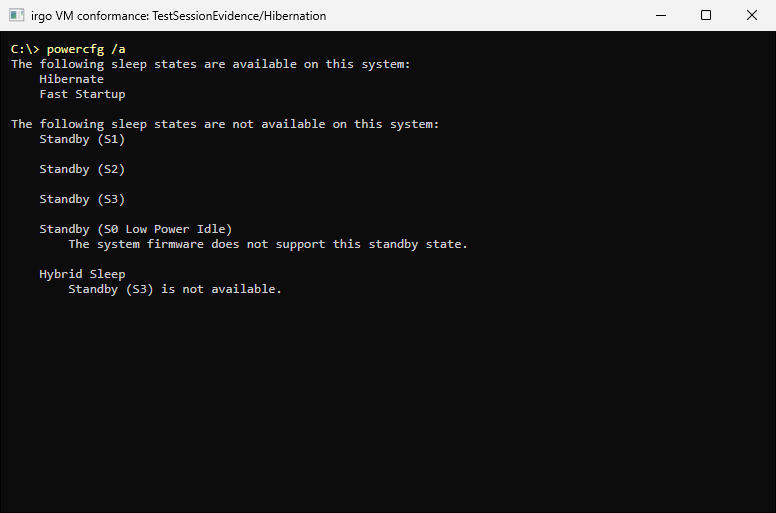
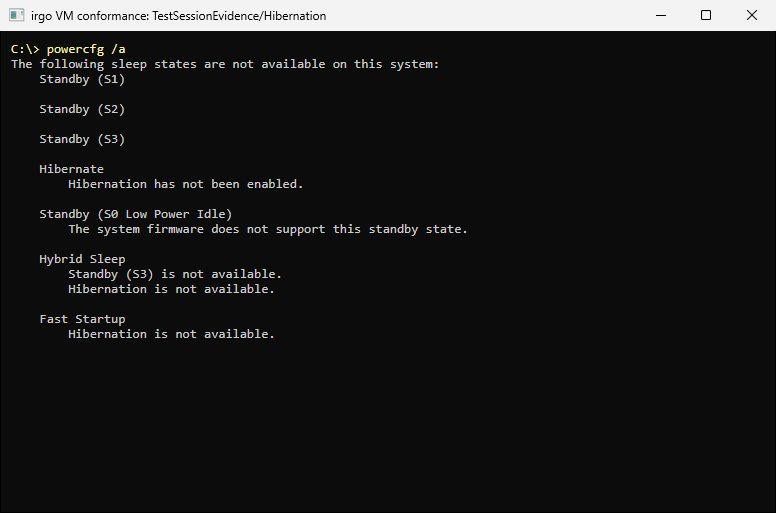
VM-STATUS: irgo-win11 YES, 44 of 44 (decrypted, hibernation off by vm-repair)

Changed region(s): [[0.0309, 0.3119, 0.5876, 0.6862], [0.0, 0.1248, 0.5567, 0.2807], [0.3093, 0.0936, 0.5567, 0.1559]]

diff --git a/docs/VM-STATUS.md b/docs/VM-STATUS.md
@@ -9,17 +9,17 @@ session (the `TestSession` tests) — from its test2json events, or a check only
 the host can make (`Host/`). What each checks is in its comment. The checks
 only read: none changes the VM.
 
-<!-- vm-status:irgo-win11 commit=f0b88cd6e1d13e3102b2cf2f823e1b3f5744d906 source-dirty=false when=2026-10-01T05:42:03Z -->
-## irgo-win11 — NO: failed: TestDeviceEncryptionOff/prevented TestDeviceEncryptionOff/volume_decrypted TestHibernationOff
+<!-- vm-status:irgo-win11 commit=264eb82e194c954e4c694ec4099d92767cdc7903 source-dirty=false when=2026-10-01T07:33:54Z -->
+## irgo-win11 — YES: 44 passed, 0 skipped
 
-- when: 2026-10-01 12:42 +0700, took 58s
+- when: 2026-10-01 14:33 +0700, took 53s
 - platform: windows/arm64, VM irgo-win11 (through app-create: as SYSTEM, and -gui in dev's session)
-- this repository: commit `f0b88cd6e1d1`
+- this repository: commit `264eb82e194c`, **with uncommitted changes**
 - windows: 26100.9457 (24H2, Professional, ARM64)
 - webview2: 154.0.4258.48
-- c-free: 32.7 GiB
-- full log: `~/Library/Application Support/irgo-winvm/logs/vm-irgo-win11-20261001-124203.log`
-- test2json events: `~/Library/Application Support/irgo-winvm/logs/vm-irgo-win11-20261001-124203.json`
+- c-free: 35.9 GiB
+- full log: `~/Library/Application Support/irgo-winvm/logs/vm-irgo-win11-20261001-143354.log`
+- test2json events: `~/Library/Application Support/irgo-winvm/logs/vm-irgo-win11-20261001-143354.json`
 - screenshots: 12 of 12 taken — see [Screenshots](#screenshots)
 
 | test | result | first message | what it read |
@@ -39,12 +39,12 @@ only read: none changes the VM.
 | TestWindowsUpdatePolicy/notifications_off | PASS |  | `SetUpdateNotificationLevel=1 / UpdateNotificationLevel=2` |
 | TestWindowsUpdatePolicy/restart_notifications_off | PASS |  | `SetAutoRestartNotificationDisable=1` |
 | TestWindowsKeysDisabled | PASS |  | `Scancode Map=00000000000000000300000000005BE000005CE000000000` |
-| TestWindowsKeysDisabled/in_effect_since_boot | PASS |  | `vm-repair wrote it at 2026-09-30T07:51:56Z; booted 2026-09-30T23:13:55Z` |
+| TestWindowsKeysDisabled/in_effect_since_boot | PASS |  | `vm-repair wrote it at 2026-09-30T07:51:56Z; booted 2026-09-30T23:46:27Z` |
 | TestOneDriveOff | PASS |  | `DisableFileSyncNGSC=1` |
-| TestDeviceEncryptionOff | fail (a subtest failed) |  |  |
-| TestDeviceEncryptionOff/prevented | **FAIL** | `system_windows_test.go:216: HKLM\SYSTEM\CurrentControlSet\Control\BitLocker\PreventDeviceEncryption is not set; want 1 (the answer file sets it in specialize; irgo-winvm vm-golden-create sets it before sealing)` | `HKLM\SYSTEM\CurrentControlSet\Control\BitLocker\PreventDeviceEncryption not set` |
-| TestDeviceEncryptionOff/volume_decrypted | **FAIL** | `system_windows_test.go:235: C: is fully encrypted (100% encrypted): a copy of it does not compress (irgo-winvm vm-golden-create decrypts its source)` | `C: fully encrypted, 100% encrypted, protection status 0` |
-| TestHibernationOff | **FAIL** | `system_windows_test.go:257: hibernation is on (HibernateEnabled not set, C:\hiberfil.sys 3432091648 bytes): powercfg /h off turns it off, as irgo-winvm vm-golden-create does before sealing` | `HibernateEnabled=not set, C:\hiberfil.sys 3432091648 bytes` |
+| TestDeviceEncryptionOff | PASS |  |  |
+| TestDeviceEncryptionOff/prevented | PASS |  | `PreventDeviceEncryption=1` |
+| TestDeviceEncryptionOff/volume_decrypted | PASS |  | `C: fully decrypted, 0% encrypted, protection status 0` |
+| TestHibernationOff | PASS |  | `HibernateEnabled=0, C:\hiberfil.sys absent` |
 | TestFileShare | PASS |  |  |
 | TestFileShare/share | PASS |  | `irgo-drop=true path="C:\\irgo-drop" access=WIN11ARM\dev:Full:Allow server=Running` |
 | TestFileShare/firewall_local_subnet_only | PASS |  | `rules=1 enabled=True Inbound Allow TCP port=445 remote=LocalSubnet` |
@@ -54,7 +54,7 @@ only read: none changes the VM.
 | TestNeverSleeps/sleep | PASS |  | `sleep after: AC 0s, DC 600s` |
 | TestNeverSleeps/display | PASS |  | `turn the display off after: AC 0s, DC 180s` |
 | TestUnattendComplete | PASS |  | `C:\unattend-complete.txt written 2026-08-13T10:23:33Z` |
-| TestFreeDiskSpace | PASS |  | `C: 32.7 GiB free` |
+| TestFreeDiskSpace | PASS |  | `C: 35.9 GiB free` |
 | TestSessionDesktop | PASS |  | `WIN11ARM\dev in session 1; explorer.exe in it: true` |
 | TestSessionNotificationsOff | PASS |  | `NoToastApplicationNotification=1` |
 | TestSessionWebView2Renders | PASS |  | `Mozilla/5.0 (Windows NT 10.0; Win64; x64) AppleWebKit/537.36 (KHTML, like Gecko) Chrome/154.0.0.0 Safari/537.36 Edg/154.0.0.0` |
@@ -62,8 +62,8 @@ only read: none changes the VM.
 | TestSessionEvidence/WindowsBuild | PASS |  | `shows "Microsoft Windows" true` |
 | TestSessionEvidence/WindowsUpdatePolicy | PASS |  | `shows "NoAutoRebootWithLoggedOnUsers REG_DWORD 0x1" true, "AUOptions REG_DWORD 0x2" true, "SetUpdateNotificationLevel REG_DWORD 0x1" true, "UpdateNotificationLevel REG_DWORD 0x2" true, "SetAutoRestartNotificationDisable REG_DWORD 0x1" true` |
 | TestSessionEvidence/WindowsKeys | PASS |  | `shows "5BE000005CE0" true` |
-| TestSessionEvidence/DeviceEncryption | PASS |  | `shows "PreventDeviceEncryption REG_DWORD 0x1" false` |
-| TestSessionEvidence/Hibernation | PASS |  | `shows "Hibernation has not been enabled" false` |
+| TestSessionEvidence/DeviceEncryption | PASS |  | `shows "PreventDeviceEncryption REG_DWORD 0x1" true` |
+| TestSessionEvidence/Hibernation | PASS |  | `shows "Hibernation has not been enabled" true` |
 | TestSessionEvidence/NeverSleeps | PASS |  | `shows "Current AC Power Setting Index: 0x00000000" true` |
 | TestSessionEvidence/FileShare | PASS |  | `shows "irgo-drop" true, "LocalSubnet" true` |
 | TestSessionEvidence/WebView2 | PASS |  | `shows "pv REG_SZ" true` |
@@ -74,7 +74,7 @@ only read: none changes the VM.
 
 Every check with something to see photographs it inside the guest, in dev's session, at the moment that shows what it checked — the desktop, a WebView2 window rendering, the setting as Windows reports it in a console — and the host photographs the whole VM with `vm-screen` at the end, after looking for stray windows. Every window a check opens it closes. A capture that failed says why instead of showing a picture; a black or one-colour frame counts as failed. How each is taken is in `examples/vmconformance`.
 
-- irgo-win11: 2026-10-01 12:42 +0700, commit `f0b88cd6e1d1`, windows/arm64, VM irgo-win11 (through app-create: as SYSTEM, and -gui in dev's session)
+- irgo-win11: 2026-10-01 14:33 +0700, commit `264eb82e194c`, windows/arm64, VM irgo-win11 (through app-create: as SYSTEM, and -gui in dev's session)
 
 | test | irgo-win11 |
 |---|---|
